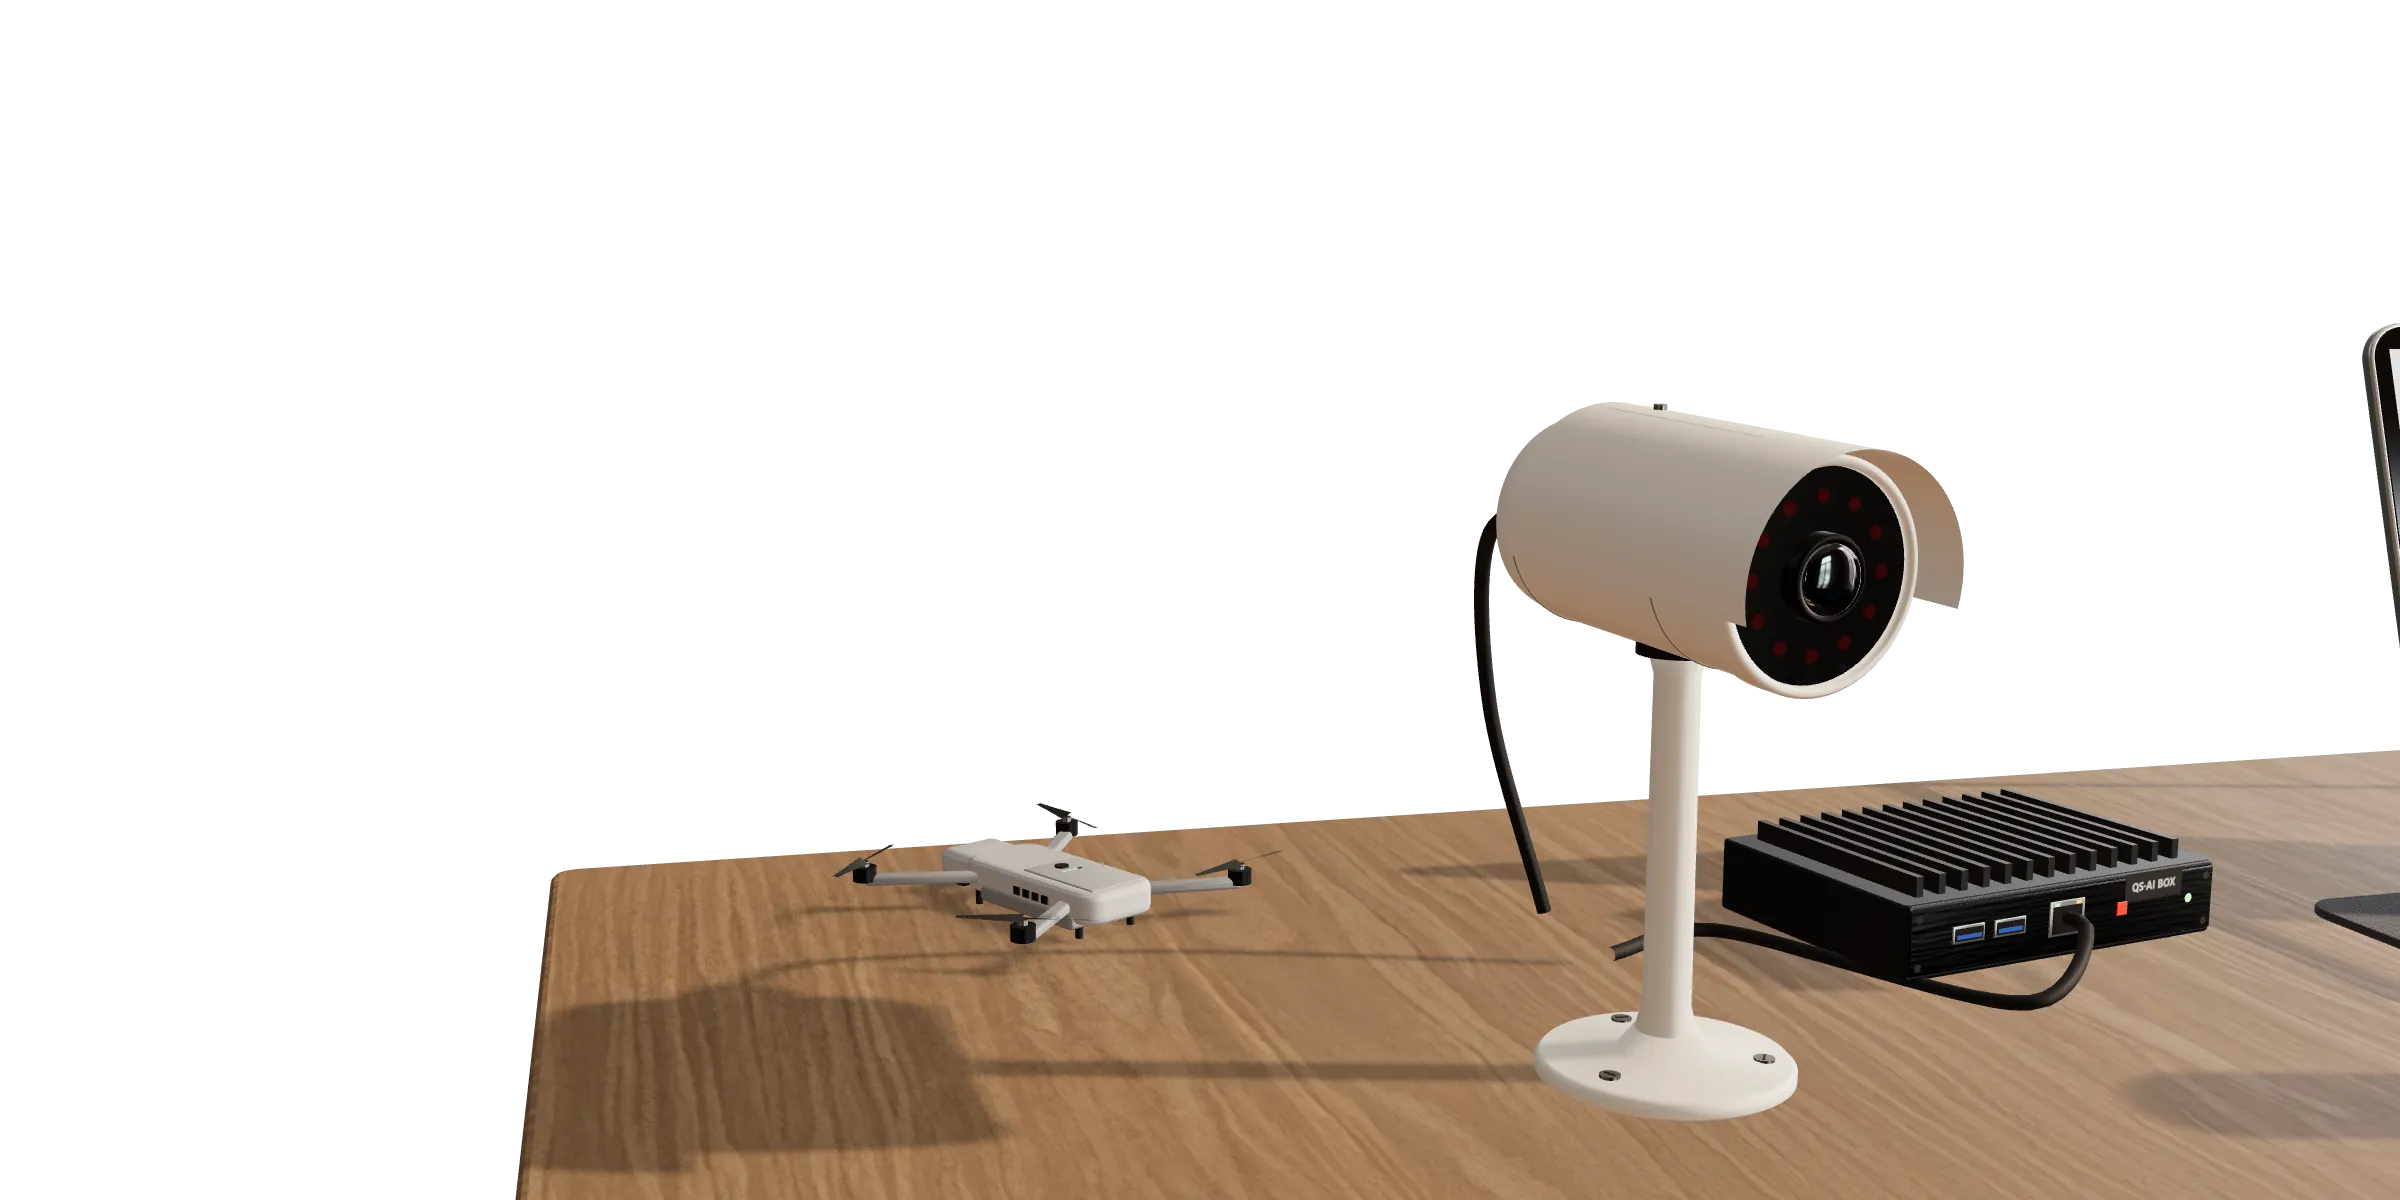
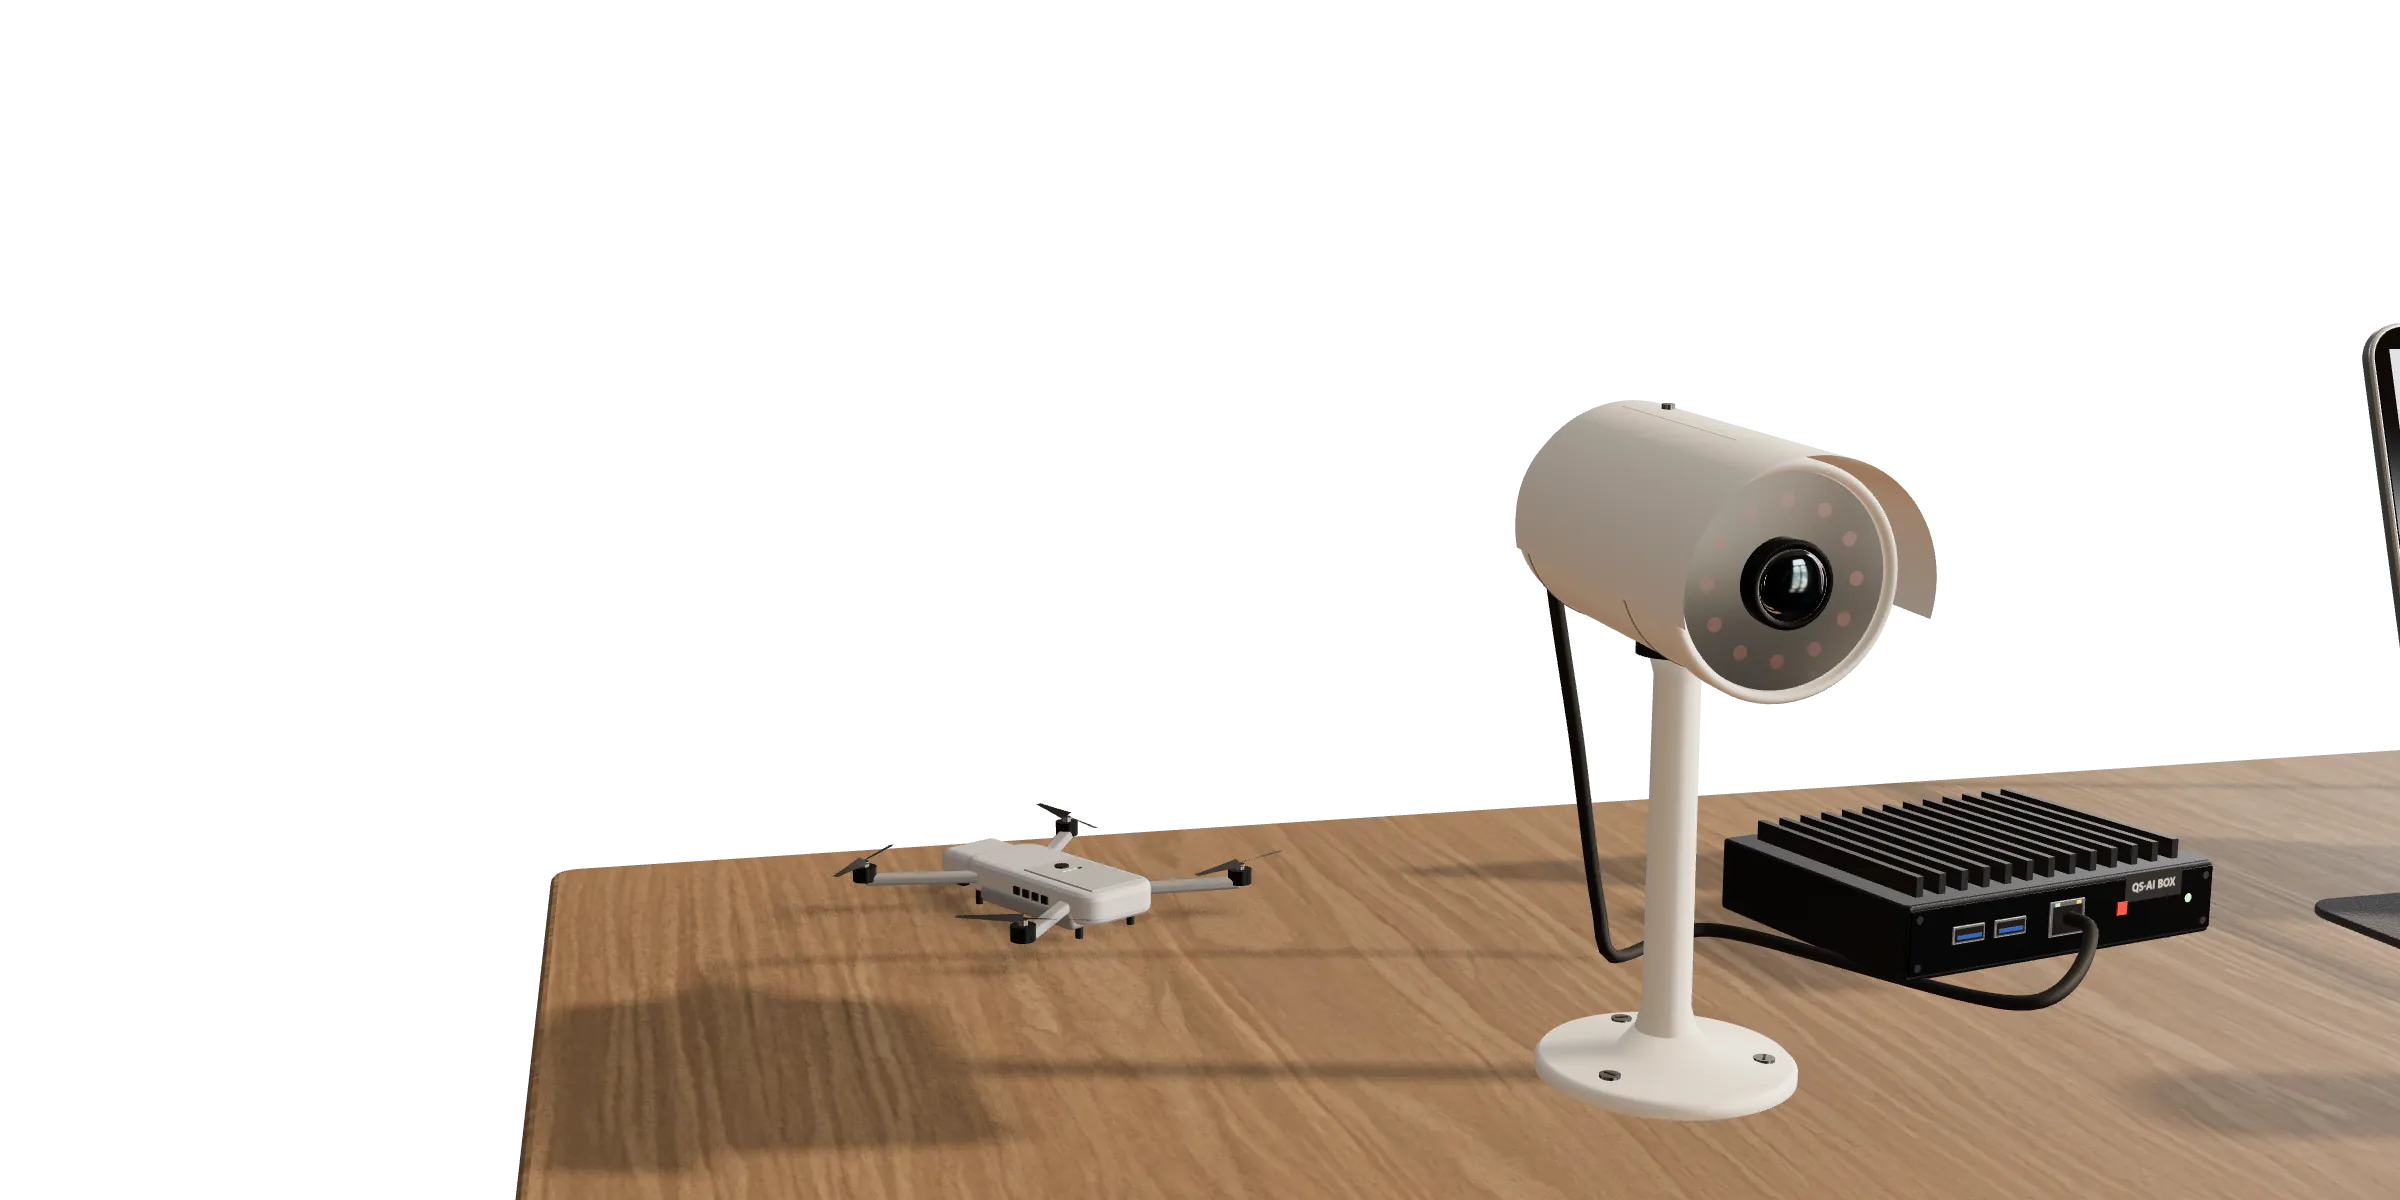
Camera cable runs unbroken into the box; lighter first load
The cable was two pieces, one riding on the camera head, so they parted
whenever the head turned. It is now one run from the gland to the ethernet
port, re-laid as the head moves. Hero posters re-captured to match.

The homepage no longer fetches three full-size photos for the footer's
56px thumbnails or pulls the journal strip at top priority, and the desk
canvas caps its pixel ratio at 1.5.

Changed region(s): [[0.5938, 0.3392, 0.8438, 0.8017], [0.8438, 0.74, 0.875, 0.8325], [0.3125, 0.8017, 0.3438, 0.8325]]

diff --git a/components/studio/objects/CctvCamera.tsx b/components/studio/objects/CctvCamera.tsx
@@ -1,10 +1,10 @@
 "use client";
 
-import { useMemo, useRef } from "react";
+import { useEffect, useMemo, useRef } from "react";
 import { useFrame, useThree } from "@react-three/fiber";
 import * as THREE from "three";
 import { scroll } from "@/lib/scroll";
-import { Box, Cyl, Ball, Tube, Surface } from "./primitives";
+import { Box, Cyl, Ball, Surface } from "./primitives";
 import { turned, turnedUp } from "./geo";
 import { kit } from "../materials";
 
@@ -42,16 +42,40 @@ export function CctvCamera({
   /** how brightly the IR ring shows (it only really glows after dark) */
   ir?: number;
 }) {
-  const p0: [number, number, number] = [0.12, 0.012, -0.42];
   const [tx, ty, tz] = cableTo;
-  const cable: [number, number, number][] = [
-    p0,
-    [p0[0] + (tx - p0[0]) * 0.3, 0.012, p0[2] + (tz - p0[2]) * 0.15 - 0.1],
-    [p0[0] + (tx - p0[0]) * 0.75, 0.014, tz + 0.16],
-    [tx, ty, tz + 0.04],
-    [tx, ty, tz],
-  ];
   const head = useRef<THREE.Group>(null);
+  const cableMesh = useRef<THREE.Mesh>(null);
+  const drawn = useRef({ yaw: 9, pitch: 9 });
+  // One cable, gland to port. Its top end rides on the head, so it is laid
+  // again whenever the head turns; the run along the desk into the box stays put.
+  const layCable = useMemo(() => {
+    const e = new THREE.Euler();
+    const a = new THREE.Vector3();
+    const b = new THREE.Vector3();
+    const land: [number, number, number] = [0.12, 0.012, -0.42];
+    return (yaw: number, pitch: number) => {
+      e.set(-pitch, yaw, 0, "YXZ");
+      a.set(0, 0.06, -0.3).applyEuler(e).setY(a.y + 0.6); // out of the gland
+      b.set(0, 0.05, -0.4).applyEuler(e).setY(b.y + 0.6); // straight back a little before it drops
+      const pts = [
+        a.clone(),
+        b.clone(),
+        new THREE.Vector3((b.x + land[0]) / 2 + 0.02, 0.3, (b.z + land[2]) / 2 - 0.05),
+        new THREE.Vector3(land[0] - 0.005, 0.07, land[2] - 0.03),
+        new THREE.Vector3(...land),
+        new THREE.Vector3(land[0] + (tx - land[0]) * 0.3, 0.012, land[2] + (tz - land[2]) * 0.15 - 0.1),
+        new THREE.Vector3(land[0] + (tx - land[0]) * 0.75, 0.014, tz + 0.16),
+        new THREE.Vector3(tx, ty, tz + 0.05),
+        new THREE.Vector3(tx, ty, tz - 0.004), // into the port
+      ];
+      return new THREE.TubeGeometry(new THREE.CatmullRomCurve3(pts, false, "centripetal"), 110, 0.0105, 8, false);
+    };
+  }, [tx, ty, tz]);
+  const firstCable = useMemo(() => layCable(0, 0), [layCable]);
+  useEffect(() => {
+    drawn.current = { yaw: 0, pitch: 0 };
+  }, [firstCable]);
+  useEffect(() => () => cableMesh.current?.geometry.dispose(), []);
   const { camera, invalidate } = useThree();
   const cur = useRef({ yaw: 0, pitch: 0 });
   const v = new THREE.Vector3();
@@ -79,6 +103,11 @@ export function CctvCamera({
     cur.current.yaw += (yaw - cur.current.yaw) * k * 0.6;
     cur.current.pitch += (pitch - cur.current.pitch) * k * 0.6;
     head.current.rotation.set(-cur.current.pitch, cur.current.yaw, 0, "YXZ");
+    if (cableMesh.current && (Math.abs(cur.current.yaw - drawn.current.yaw) > 0.004 || Math.abs(cur.current.pitch - drawn.current.pitch) > 0.004)) {
+      drawn.current = { yaw: cur.current.yaw, pitch: cur.current.pitch };
+      cableMesh.current.geometry.dispose();
+      cableMesh.current.geometry = layCable(cur.current.yaw, cur.current.pitch);
+    }
     // keep frames coming only while the head is still catching up
     if (Math.abs(yaw - cur.current.yaw) > 2e-4 || Math.abs(pitch - cur.current.pitch) > 2e-4) invalidate();
   });
@@ -183,11 +212,12 @@ export function CctvCamera({
           {/* cable gland + cable */}
           <Cyl r={0.04} h={0.045} rotation={[Math.PI / 2, 0, 0]} position={[0, 0, -0.268]} color="#232528" roughness={0.55} metalness={0.3} normalMap={kit.knurl(16, 1)} normalScale={0.7} segments={32} />
           <Cyl r={0.026} h={0.03} rotation={[Math.PI / 2, 0, 0]} position={[0, 0, -0.3]} color="#17181a" roughness={0.7} segments={24} />
-          <Tube points={[[0, 0, -0.31], [0, -0.06, -0.42], [0.05, -0.31, -0.48], [0.12, -0.61, -0.42]]} r={0.0105} color="#17181a" roughness={0.6} />
         </group>
       </group>
-      {/* cable along the desk, into the box */}
-      <Tube points={cable} r={0.0105} color="#17181a" roughness={0.6} />
+      {/* the cable: from the gland, down behind the post, along the desk and into the box */}
+      <mesh ref={cableMesh} geometry={firstCable} castShadow receiveShadow frustumCulled={false} dispose={null}>
+        <Surface color="#17181a" roughness={0.6} />
+      </mesh>
     </group>
   );
 }

diff --git a/components/Footer.tsx b/components/Footer.tsx
@@ -1,3 +1,4 @@
+import Image from "next/image";
 import { site } from "@/content/site";
 import { photos } from "@/content/gallery";
 import { AccentSwatches } from "./AccentSwatches";
@@ -34,8 +35,8 @@ export function Footer() {
             {peek.length > 0 && (
               <span className="ig-strip" aria-hidden>
                 {peek.map((p) => (
-                  // eslint-disable-next-line @next/next/no-img-element
-                  <img key={p.src} src={p.src} alt="" width={56} height={56} style={{ objectFit: "cover", display: "block" }} />
+                  // thumbnails: resized, and fetched only when they are about to show
+                  <Image key={p.src} src={p.src} alt="" width={56} height={56} sizes="56px" style={{ objectFit: "cover", display: "block" }} />
                 ))}
               </span>
             )}

diff --git a/components/Journal.tsx b/components/Journal.tsx
@@ -46,6 +46,8 @@ export function Journal() {
                        lazy frame can arrive as a grey box mid-glide; the six
                        originals load up front and the clones hit cache */
                     loading={i < list.length ? "eager" : "lazy"}
+                    // …but behind everything the first screen needs
+                    fetchPriority="low"
                   />
                 ) : (
                   <span className="mono" style={{ position: "absolute", inset: 0, display: "grid", placeItems: "center", fontSize: 10, letterSpacing: "0.1em", color: "var(--faint)" }}>PHOTO</span>

diff --git a/components/studio/StudioScene.tsx b/components/studio/StudioScene.tsx
@@ -535,7 +535,7 @@ export default function StudioScene({
       // blocks the page on a synchronous compile
       frameloop={compiled && active ? "demand" : "never"}
       shadows
-      dpr={[1, 1.75]}
+      dpr={[1, 1.5]}
       gl={{ alpha: true, antialias: true, toneMapping: THREE.ACESFilmicToneMapping, toneMappingExposure: 1 }}
       camera={{ fov: 30, near: 0.1, far: 40, position: [-2.9, 0.75, 1.9] }}
       style={{ position: "absolute", inset: 0 }}
